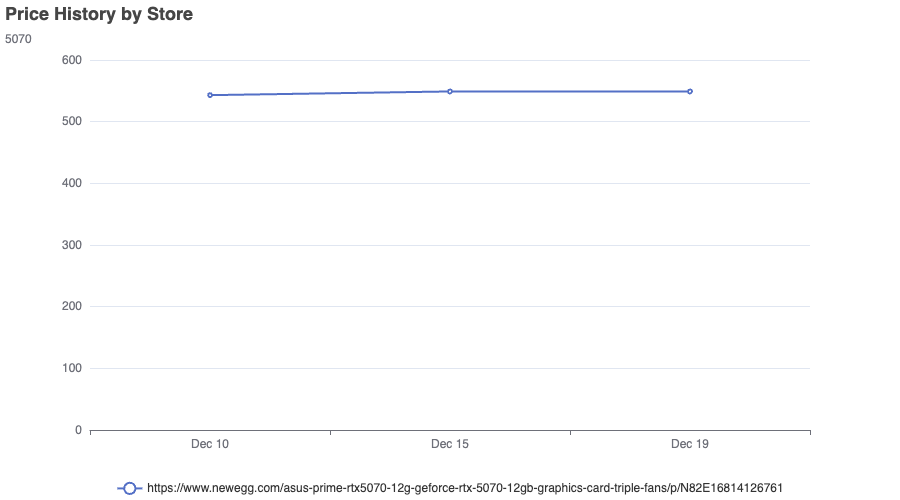
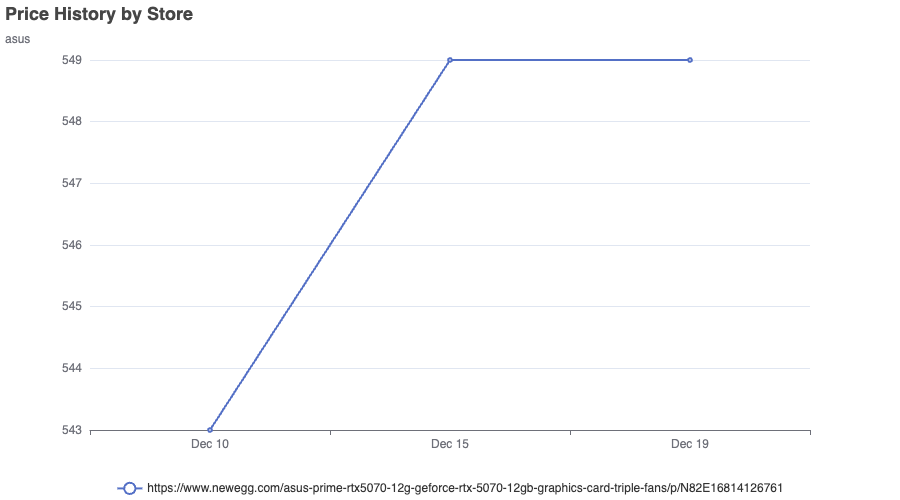
finished chart implementation

diff --git a/Discord/discord.go b/Discord/discord.go
@@ -4,8 +4,10 @@ import (
 	"encoding/json"
 	"fmt"
 	"log"
+	"log/slog"
 	"os"
 	"os/signal"
+	charts "priceTracker/Charts"
 	database "priceTracker/Database"
 	"strings"
 
@@ -117,6 +119,24 @@ var commandList = []*discordgo.ApplicationCommand{
 			},
 		},
 	},
+	{
+		Name:        "graph_price",
+		Description: "graph price of item",
+		Options: []*discordgo.ApplicationCommandOption{
+			{
+				Name:        "name",
+				Description: "Add item name",
+				Type:        discordgo.ApplicationCommandOptionString,
+				Required:    true,
+			},
+			{
+				Name:        "months",
+				Description: "how long of the history to graph",
+				Type:        discordgo.ApplicationCommandOptionInteger,
+				Required:    true,
+			},
+		},
+	},
 }
 var commandHandler = map[string]func(discord *discordgo.Session, i *discordgo.InteractionCreate){
 	"add_item": func(discord *discordgo.Session, i *discordgo.InteractionCreate) {
@@ -225,6 +245,36 @@ var commandHandler = map[string]func(discord *discordgo.Session, i *discordgo.In
 			},
 		})
 	},
+	"graph_price": func(discord *discordgo.Session, i *discordgo.InteractionCreate) {
+		
+		// set up response to discord client
+		discord.InteractionRespond(i.Interaction, &discordgo.InteractionResponse{
+			Type: discordgo.InteractionResponseDeferredChannelMessageWithSource,
+		})
+		// get command inputs from discord
+		options := i.ApplicationCommandData().Options
+		logger := slog.New(slog.NewJSONHandler(os.Stdout, nil))
+		logger.Info("options", slog.Any("optoin", options))
+		err := charts.PriceHistoryChart(options[0].StringValue(), int(options[1].IntValue()))
+		if (err != nil) {
+			log.Print(err)
+		}
+		reader, err := os.Open("my-chart.png")
+		if err != nil{
+			log.Fatal(err)
+		}
+		File := discordgo.File{
+			Name: "chart.png",
+			ContentType: "Image",
+			Reader: reader,
+		}
+		_, err = discord.FollowupMessageCreate(i.Interaction, true, &discordgo.WebhookParams{
+			Files: []*discordgo.File{&File},
+		})
+		if err != nil {
+			fmt.Printf("Error sending follow-up message: %v\n", err)
+		}
+	},
 }
 
 func checkNilErr(e error) {
@@ -246,6 +296,7 @@ func Run() {
 
 	// open session
 	Discord.Open()
+	
 	Discord.AddHandler(func(s *discordgo.Session, i *discordgo.InteractionCreate) {
 		if h, ok := commandHandler[i.ApplicationCommandData().Name]; ok {
 			h(s, i)
@@ -336,5 +387,15 @@ func CrawlErrorAlert(discord *discordgo.Session, itemName string, URL string, er
 	itemName, URL, err.Error())
 	log.Printf("Crawler could not find price for %s in url %s, with error %s investigate logs for further information",
 	itemName, URL, err.Error())
-	discord.ChannelMessageSend("803818389755265075", content)
+	discord.ChannelMessageSend(os.Getenv("CHANNEL_ID"), content)
+}
+func SendGraphPng(discord *discordgo.Session){
+	//content := fmt.Sprintf("Chart for Product named %s for the last %d months", productName, months)
+	reader, err := os.Open("my-chart.png")
+	if err != nil{
+		log.Fatal(err)
+	}
+	discord.ChannelFileSend(os.Getenv("CHANNEL_ID"), "my-chart.png", reader)
+	
+	
 }

diff --git a/Charts/Charts.go b/Charts/Charts.go
@@ -11,23 +11,13 @@ import (
 	"github.com/go-echarts/snapshot-chromedp/render"
 )
 
-func PriceHistoryChart(Name string, date time.Time) error{
+func PriceHistoryChart(Name string, month int) error{
 	line := charts.NewLine()
-	time := time.Date(
-		2009,                 // Year
-		time.November,        // Month (use time.Month constants)
-		17,                   // Day
-		20,                   // Hour (24-hour format)
-		34,                   // Minute
-		58,                   // Second
-		651387237,            // Nanosecond
-		time.UTC,             // Location/Time Zone (use time.UTC or time.Local)
-	)
-	priceList, err := database.GetPriceHistory(Name, time)
+	priceList, err := database.GetPriceHistory(Name, time.Now().AddDate(0, -month, 0))
 	logger := slog.New(slog.NewJSONHandler(os.Stdout, nil))
 	
 	if err != nil{
-		return line, err
+		return err
 	}
     line.SetGlobalOptions(
         charts.WithTitleOpts(opts.Title{
@@ -43,11 +33,14 @@ func PriceHistoryChart(Name string, date time.Time) error{
 			Show:   opts.Bool(true),
 			Bottom: "0%",  // ← Position at bottom
 		}),
-        charts.WithDataZoomOpts(opts.DataZoom{
+		charts.WithYAxisOpts(opts.YAxis{
+			Scale: opts.Bool(true),  // ← Add this
+		}),
+       /*  charts.WithDataZoomOpts(opts.DataZoom{
             Type:  "inside",
             Start: 0,
             End:   100,
-        }),
+        }), */
     )
 
     // Set series options to show data points
@@ -56,8 +49,10 @@ func PriceHistoryChart(Name string, date time.Time) error{
 			ShowSymbol: opts.Bool(true),
 			SymbolSize: 10,  // ← Make points bigger
 			Smooth:     opts.Bool(false),
+			ConnectNulls: opts.Bool(false),
 		}),
 	)
+	
 
 	var dates []string
     dateToIdx := make(map[string]int)

diff --git a/main.go b/main.go
@@ -4,10 +4,8 @@ import (
 	"context"
 	"log"
 	"os"
-	charts "priceTracker/Charts"
 	database "priceTracker/Database"
 	"priceTracker/discord"
-	"time"
 
 	"github.com/joho/godotenv"
 )
@@ -22,8 +20,8 @@ func main() {
 	ctx, cancel := context.WithCancel(context.Background())
 	database.InitDB(ctx, cancel)
 	// go crawler.InitCrawler(ctx, cancel)
-	charts.PriceHistoryChart("5070", time.Now().Add(-100 * time.Hour))
-	// discord.Run() // call the run function of bot/bot.go
+	// charts.PriceHistoryChart("5070", 3)
+	discord.Run() // call the run function of bot/bot.go
 	defer func() {
 		if err = database.Client.Disconnect(context.TODO()); err != nil {
 			panic(err)

diff --git a/Database/database.go b/Database/database.go
@@ -144,7 +144,7 @@ func GetItem(itemName string) (Item, error) {
 func GetPriceHistory(Name string, date time.Time) ([]*Price, error){
 	var res []*Price
 	pipeline := mongo.Pipeline{
-		bson.D{{"$match", bson.D{{"Name", "5070"}}}},
+		bson.D{{"$match", bson.D{{"Name", Name}}}},
 		bson.D{{"$unwind", bson.D{{"path", "$PriceHistory"}}}},
 		bson.D{
 			{"$unset",
